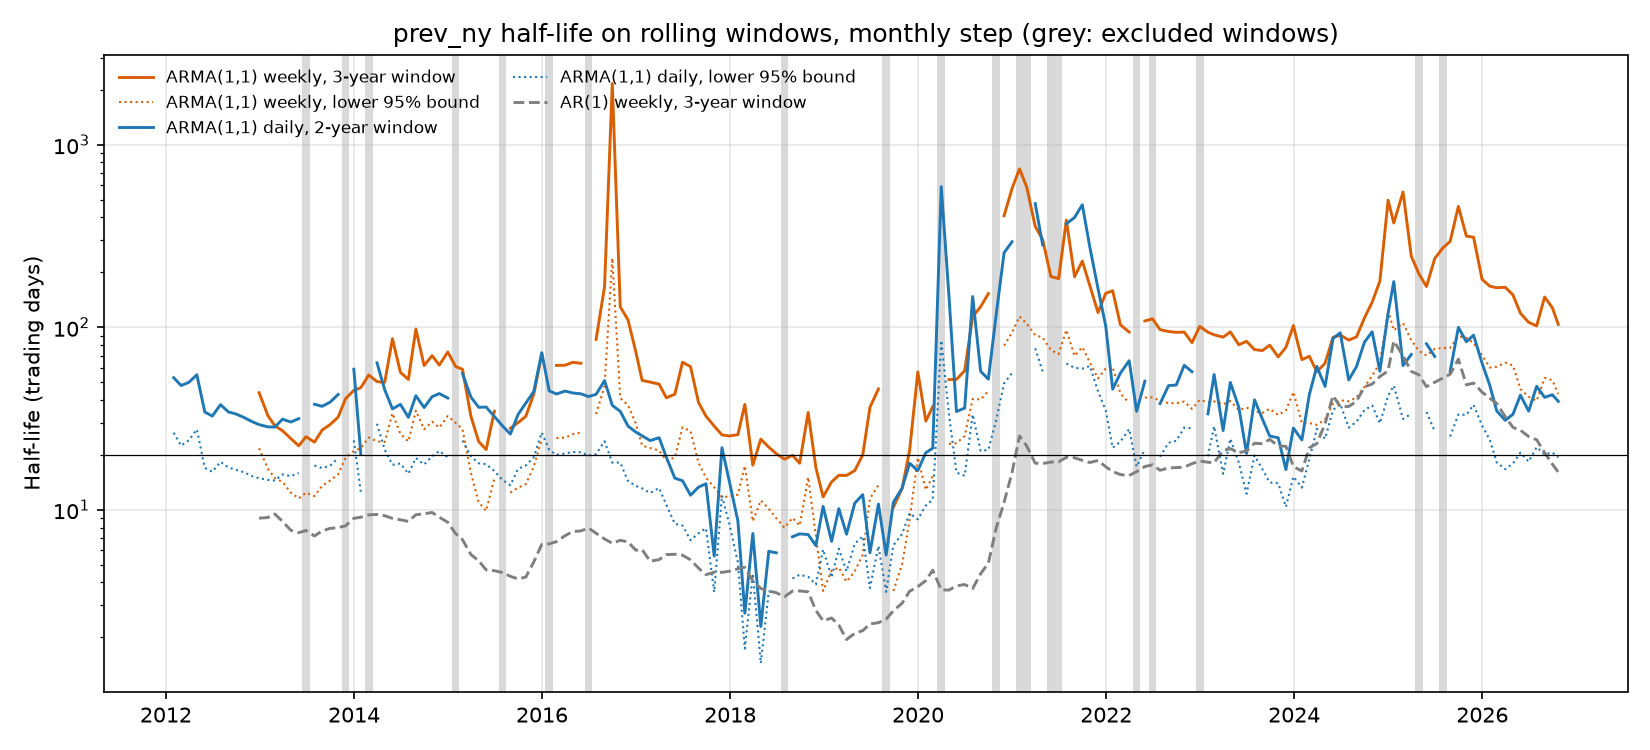
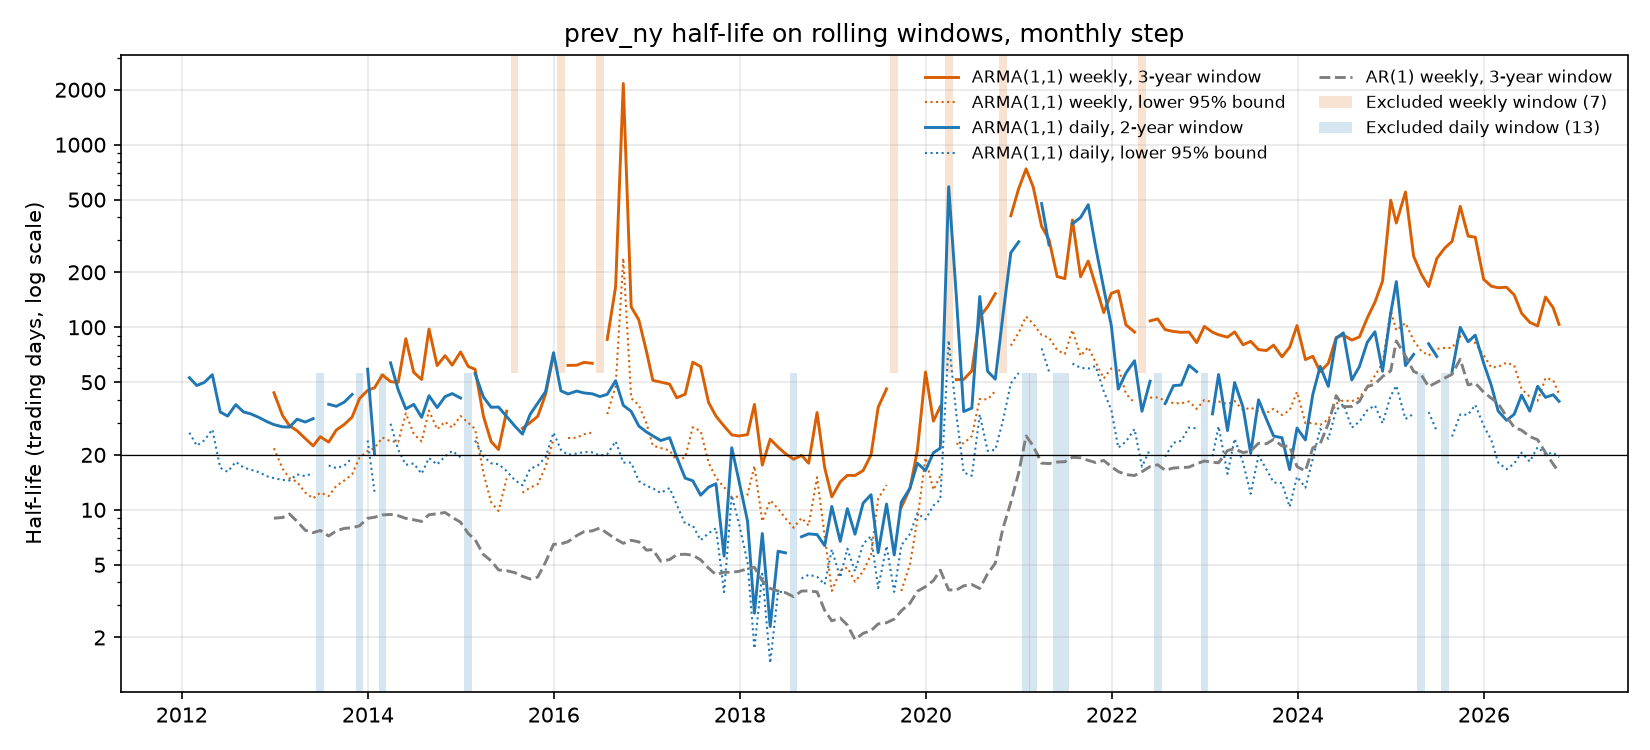
Separate excluded daily and weekly windows in rolling figure
Shade excluded weekly windows in the upper half and daily ones in the lower half,
in their series colours, with counts in the legend. Keep the log scale and label
its ticks in plain trading days.

diff --git a/scripts/mean_reversion.py b/scripts/mean_reversion.py
@@ -19,6 +19,8 @@ sys.path.insert(0, str(ROOT / "src"))
 import matplotlib
 matplotlib.use("Agg")
 import matplotlib.pyplot as plt
+from matplotlib.patches import Patch
+from matplotlib.ticker import FixedLocator, NullFormatter, ScalarFormatter
 
 from adr_premium.clean import prepare_fred_fx
 from adr_premium.data import download, download_fred_fx
@@ -226,14 +228,26 @@ def plot_rolling_arma(rows: list[dict], out: Path) -> None:
         if model == "arma11":
             ax.plot(g["end"], g["half_life_ci_low"].where(~g["excluded"]), color=color, ls=":", lw=1.0,
                     label=f"ARMA(1,1) {freq}, lower 95% bound")
-    for end in t.loc[t["excluded"], "end"].unique():
-        ax.axvspan(end - pd.Timedelta(days=15), end + pd.Timedelta(days=15), color="0.85", lw=0, zorder=0)
+    # Excluded windows: weekly in the upper half of the plot, daily in the lower half.
+    bands = {"weekly": ("#d95f02", 0.5, 1.0), "daily": ("#1f77b4", 0.0, 0.5)}
+    handles, labels = ax.get_legend_handles_labels()
+    for freq, (color, ymin, ymax) in bands.items():
+        ends = t.loc[t["excluded"] & (t["frequency"] == freq), "end"].unique()
+        for end in ends:
+            ax.axvspan(end - pd.Timedelta(days=15), end + pd.Timedelta(days=15), ymin=ymin, ymax=ymax,
+                       color=color, alpha=0.18, lw=0, zorder=0)
+        handles.append(Patch(color=color, alpha=0.18, lw=0))
+        labels.append(f"Excluded {freq} window ({len(ends)})")
     ax.axhline(HALF_LIFE_THRESHOLD, color="black", lw=0.6)
+    # Log scale: the spikes reach hundreds of days and would flatten the rest.
     ax.set_yscale("log")
-    ax.set_ylabel("Half-life (trading days)")
-    ax.set_title("prev_ny half-life on rolling windows, monthly step (grey: excluded windows)")
+    ax.yaxis.set_major_locator(FixedLocator([1, 2, 5, 10, 20, 50, 100, 200, 500, 1000, 2000]))
+    ax.yaxis.set_major_formatter(ScalarFormatter())
+    ax.yaxis.set_minor_formatter(NullFormatter())
+    ax.set_ylabel("Half-life (trading days, log scale)")
+    ax.set_title("prev_ny half-life on rolling windows, monthly step")
     ax.grid(alpha=0.3)
-    ax.legend(frameon=False, fontsize=8, ncol=2)
+    ax.legend(handles, labels, frameon=False, fontsize=8, ncol=2)
     fig.tight_layout()
     fig.savefig(out, dpi=150)
 
